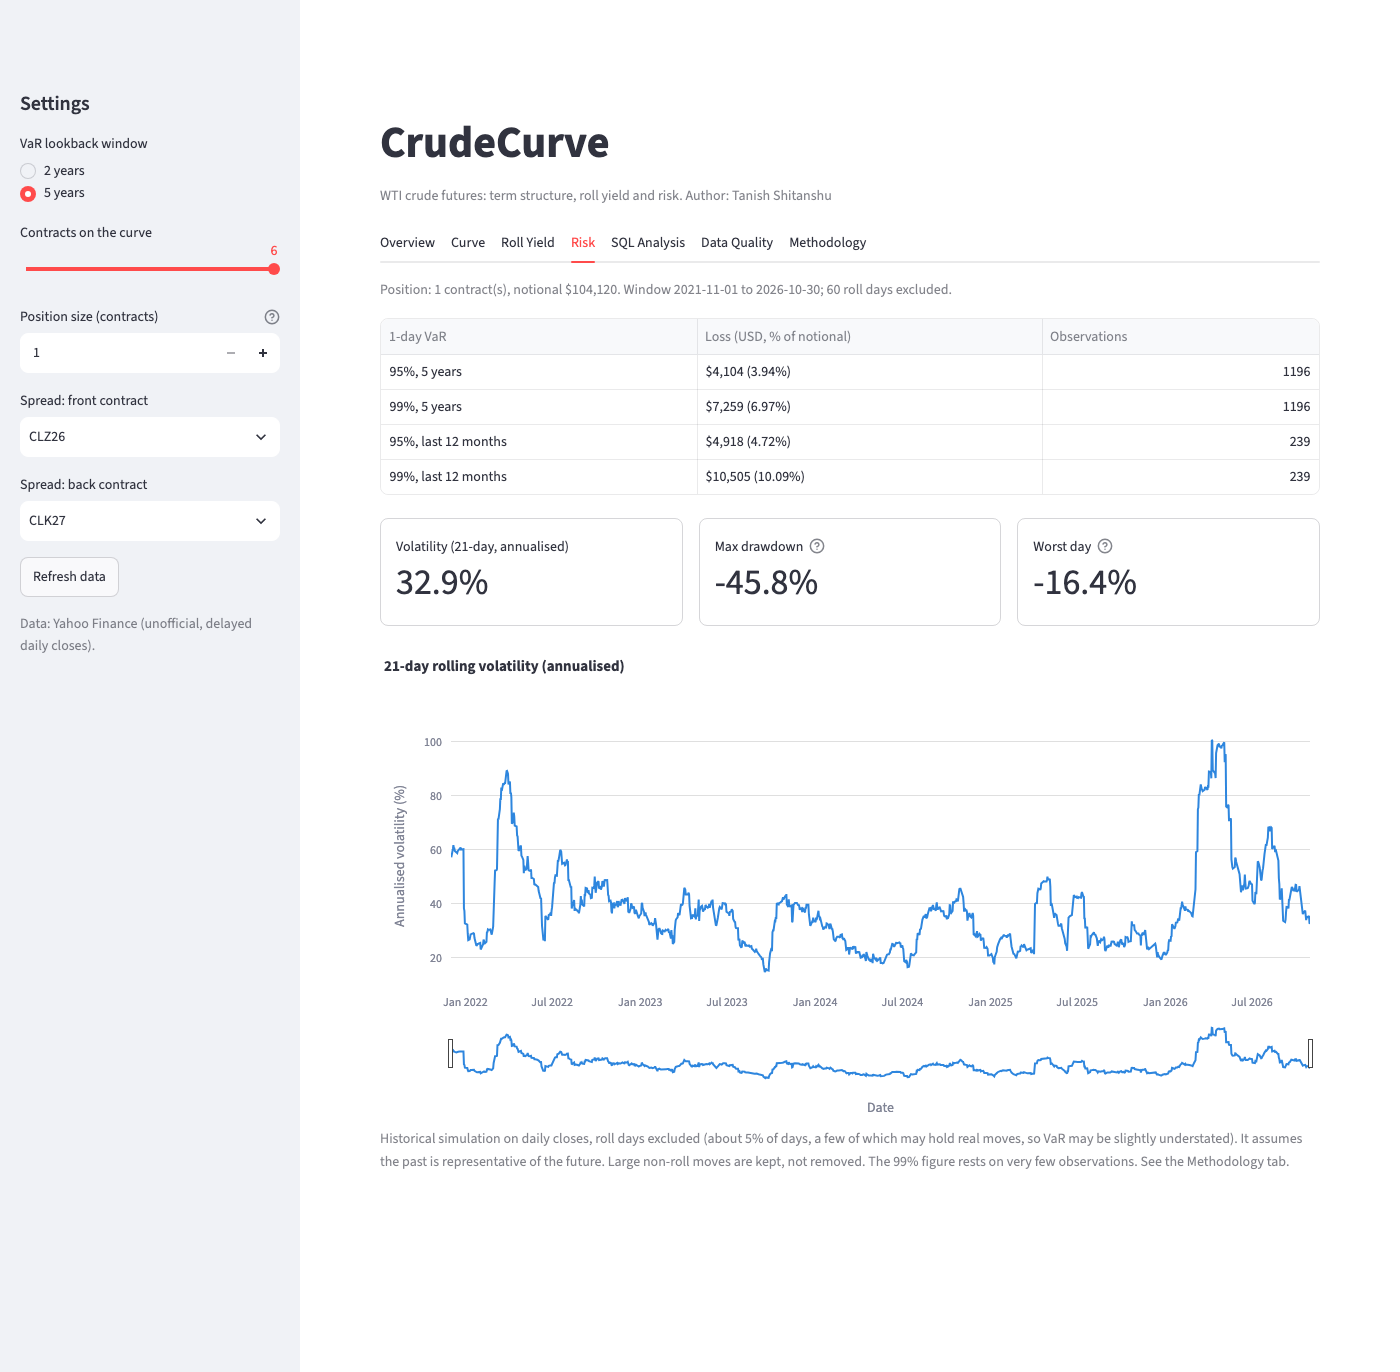
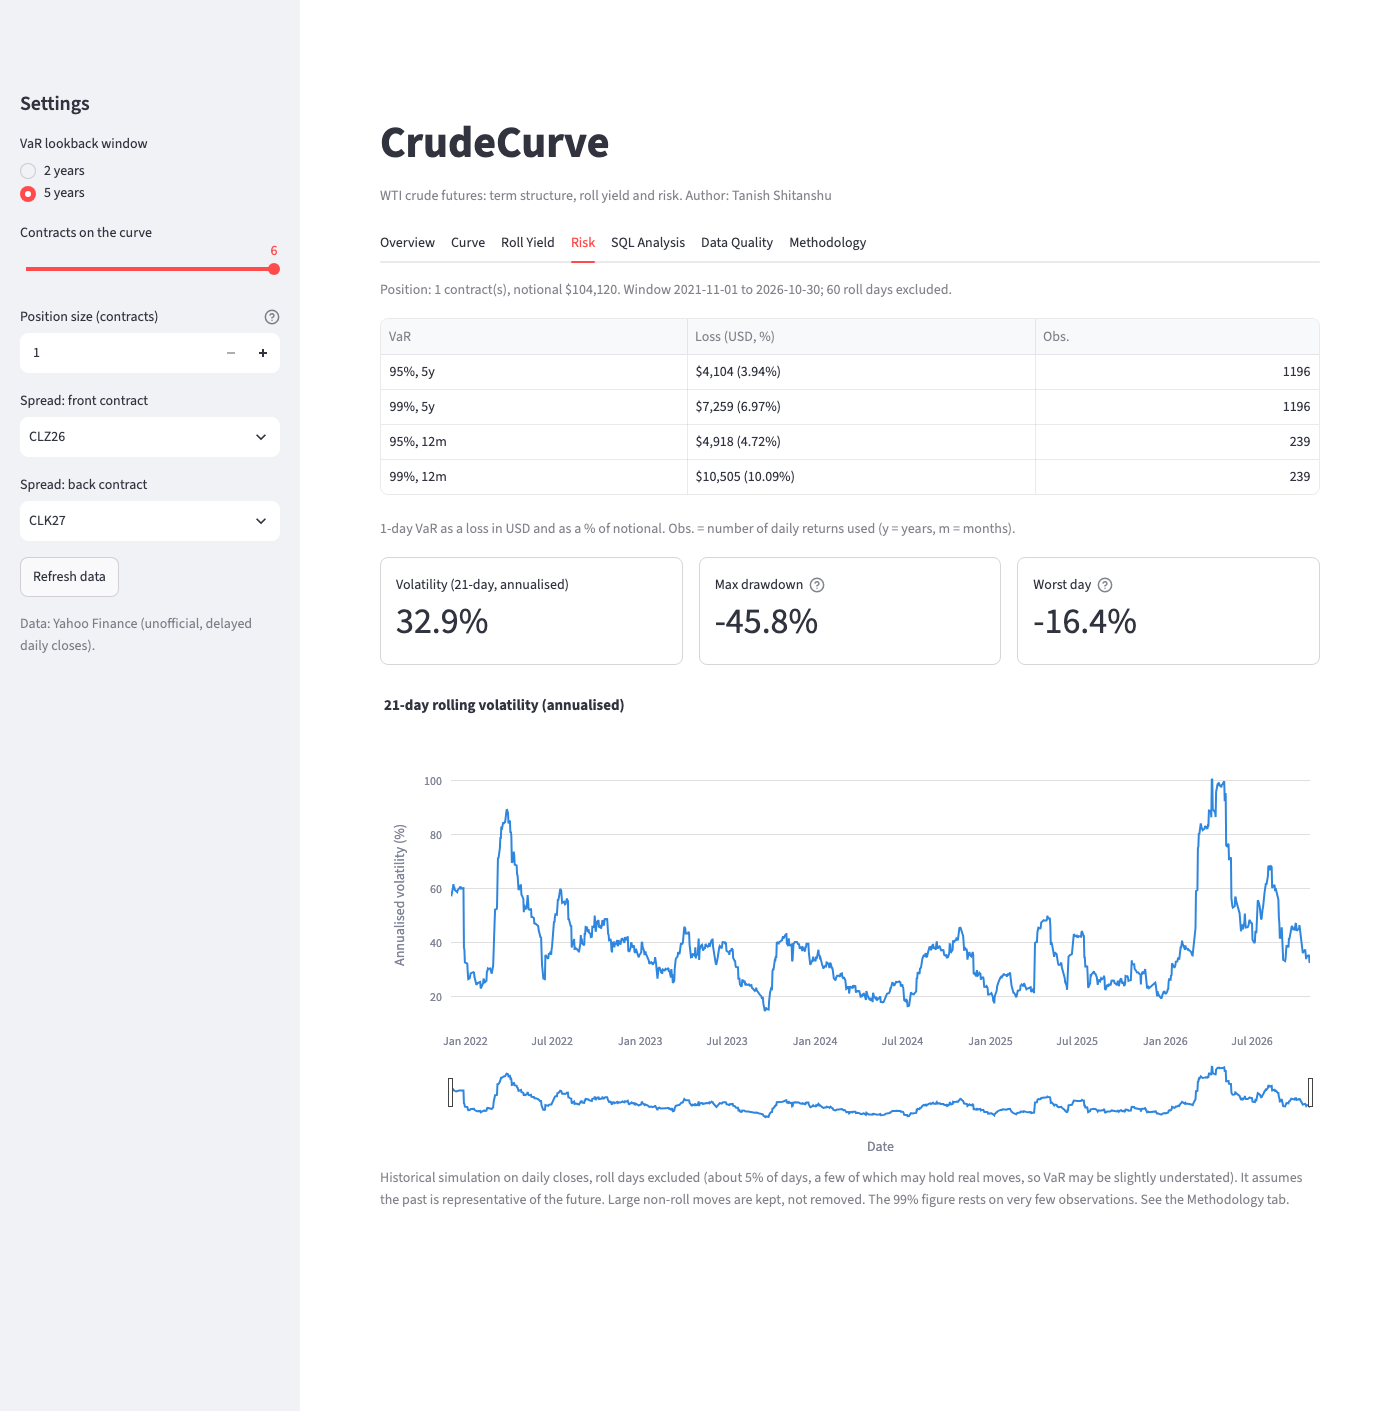
Make the VaR table fit a phone screen and refresh the Risk screenshot

diff --git a/tests/test_views.py b/tests/test_views.py
@@ -13,18 +13,18 @@ def m(curve, history):
 
 def test_var_table_has_three_narrow_columns_and_four_rows(m):
     table = views._var_table(m)
-    assert list(table.columns) == ["1-day VaR", "Loss (USD, % of notional)", "Observations"]
+    assert list(table.columns) == ["VaR", "Loss (USD, %)", "Obs."]
     assert len(table) == 4
-    assert list(table["1-day VaR"]) == ["95%, 2 years", "99%, 2 years", "95%, last 12 months", "99%, last 12 months"]
+    assert list(table["VaR"]) == ["95%, 2y", "99%, 2y", "95%, 12m", "99%, 12m"]
 
 
 def test_var_table_shows_dollars_percent_and_observation_counts(m):
     table = views._var_table(m)
     v = m["risk"]["var"][0.95]
-    assert table["Observations"].iloc[0] == v["observations"]
-    loss = table["Loss (USD, % of notional)"].iloc[0]
+    assert table["Obs."].iloc[0] == v["observations"]
+    loss = table["Loss (USD, %)"].iloc[0]
     assert loss.startswith("$") and loss.endswith("%)")
-    assert table["Observations"].iloc[2] < table["Observations"].iloc[0]  # 12 months has fewer than 2 years
+    assert table["Obs."].iloc[2] < table["Obs."].iloc[0]  # 12 months has fewer than 2 years
 
 
 def test_var_table_handles_missing_history():
@@ -35,5 +35,5 @@ def test_var_table_handles_missing_history():
         pd.DataFrame(columns=["date", "close"]), 5, 1,
     )
     table = views._var_table(empty)
-    assert set(table["Loss (USD, % of notional)"]) == {"n/a (n/a)"}
-    assert set(table["Observations"]) == {0}
+    assert set(table["Loss (USD, %)"]) == {"n/a (n/a)"}
+    assert set(table["Obs."]) == {0}

diff --git a/crudecurve/views.py b/crudecurve/views.py
@@ -137,8 +137,8 @@ def _var_table(m: dict) -> pd.DataFrame:
     rows = []
     risk = m["risk"]
     windows = (
-        (f"{m['lookback_years']} years", "var"),
-        (f"last {RECENT_WINDOW_DAYS // 30} months", "var_recent"),
+        (f"{m['lookback_years']}y", "var"),
+        (f"{RECENT_WINDOW_DAYS // 30}m", "var_recent"),
     )
     for label, key in windows:
         for confidence in VAR_CONFIDENCE_LEVELS:
@@ -146,9 +146,9 @@ def _var_table(m: dict) -> pd.DataFrame:
             usd = format_optional(v["var_usd"], lambda x: format_usd(x, 0))
             pct = format_optional(v["var_pct"], lambda x: format_pct(x * 100))
             rows.append({
-                "1-day VaR": f"{int(confidence * 100)}%, {label}",
-                "Loss (USD, % of notional)": f"{usd} ({pct})",
-                "Observations": v["observations"],
+                "VaR": f"{int(confidence * 100)}%, {label}",
+                "Loss (USD, %)": f"{usd} ({pct})",
+                "Obs.": v["observations"],
             })
     return pd.DataFrame(rows)
 
@@ -165,6 +165,8 @@ def render_risk(m: dict) -> None:
         f"{risk['roll_days_excluded']} roll days excluded."
     ))
     st.dataframe(_var_table(m), hide_index=True, use_container_width=True)
+    st.caption("1-day VaR as a loss in USD and as a % of notional. Obs. = number of daily returns used "
+               "(y = years, m = months).")
 
     drawdown, worst = risk["max_drawdown"], risk["worst_day"]
     cols = st.columns(3)
